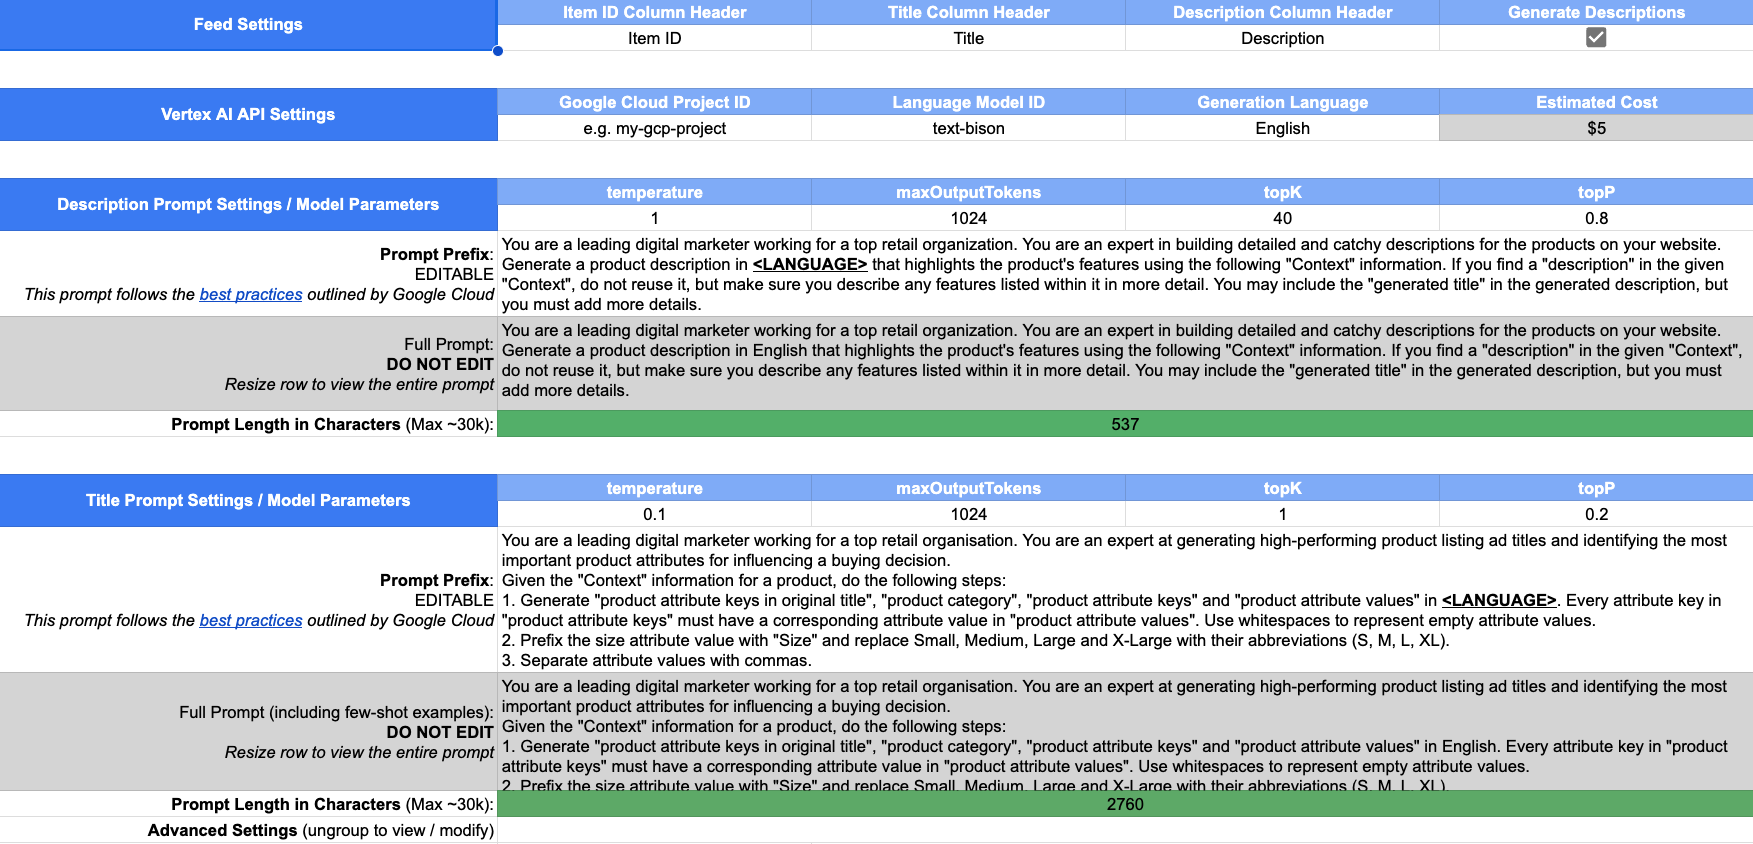
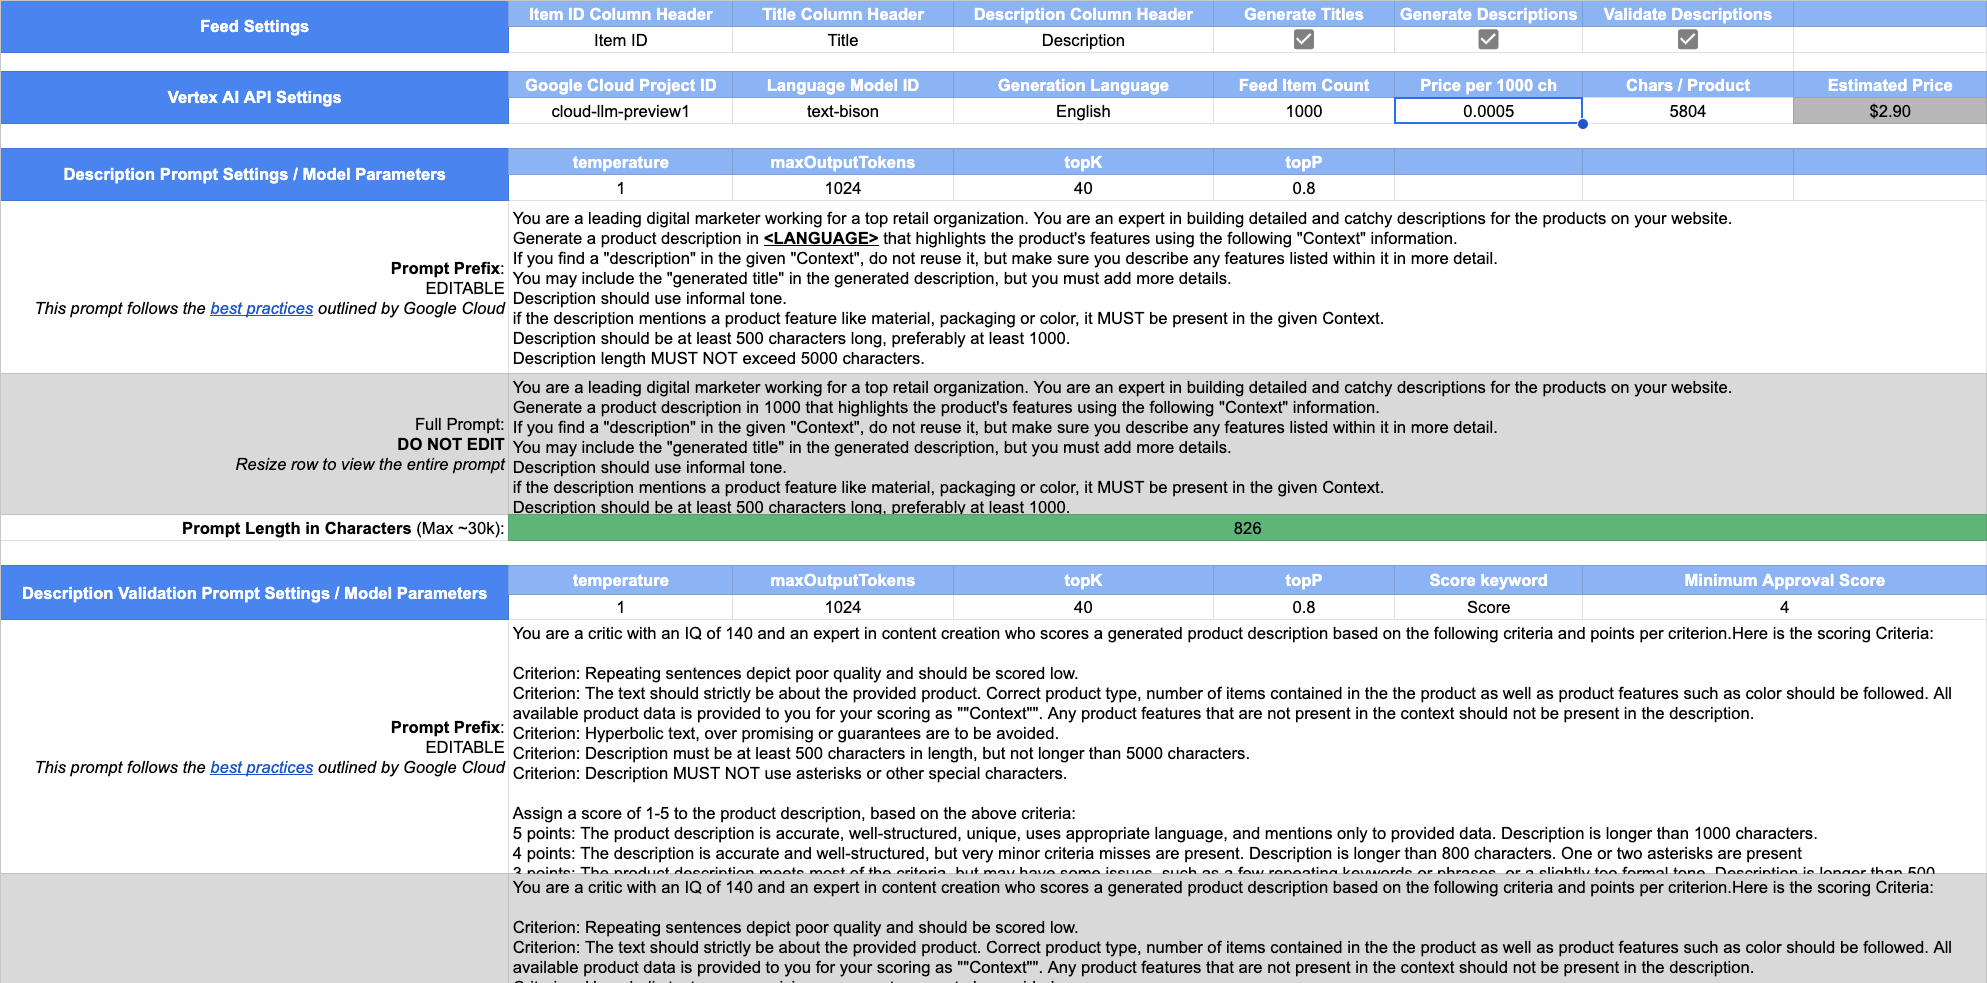
README updated to reflect Descriptions Validation

diff --git a/README.md b/README.md
@@ -101,6 +101,20 @@ switched on by default).
 
 <img src='./img/config.png' alt='Config' />
 
+
+### Description Generation
+Description generation works by taking the prompt prefix given in the **Config** sheet, appending a row of data from **Input** and sending the result as a prompt to LLM. This gives you great flexibility in shaping the wording, style and other requirements you might have. All data from **Input Feed** will be provided as part of the prompt.
+
+*Optional*: You can also provide examples of descriptions to items in **Few-shot** examples section (see below). Those will be appended to the prompt prefix as well and show to the model what *good* descriptions should look like.
+
+The result from LLM is directly output as **Generated Description**
+
+### Description Validation
+Since LLMs have a tendency to hallucinate, there is an option to ask the model (in a follow-up prompt) if the generated description meets your criteria. As with description generation, all **Input** data is appended to the prompt prefix, and model responds with a numerical score as well as reasoning. Example validation prompt is provided to give some hints on how to write it - e.g. include criteria as well as example score values.
+
+*Note*: "Score keyword" is important to mark where the numeric value of the score is present in the model output. When generating descriptions in non-English language, the Score keyword should match the output language.
+
+### Title Generation 
 All available data is used to generate descriptions, while titles use few-shot
 prompting; a technique where one would select samples from their own input
 feed as shown below to customise the model's responses towards their data. To
